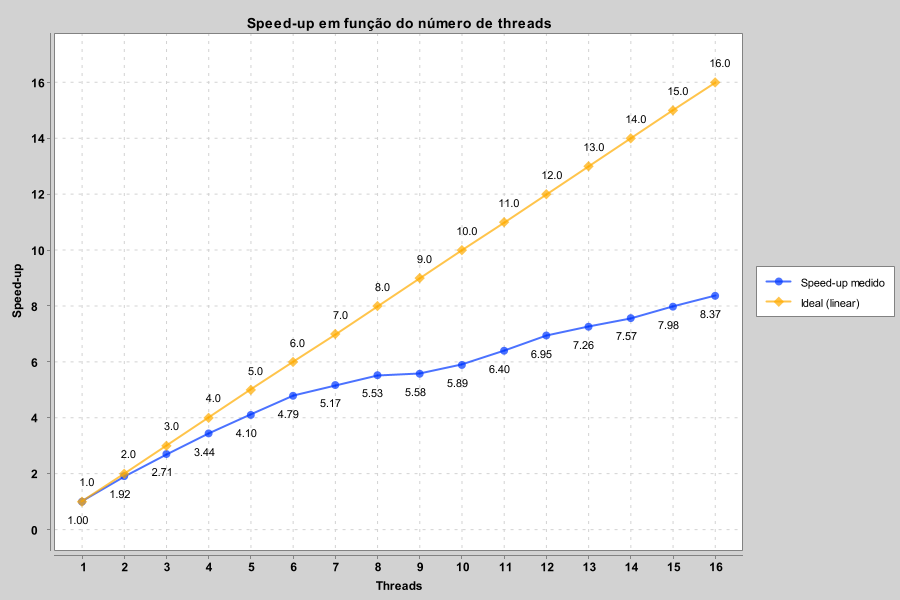
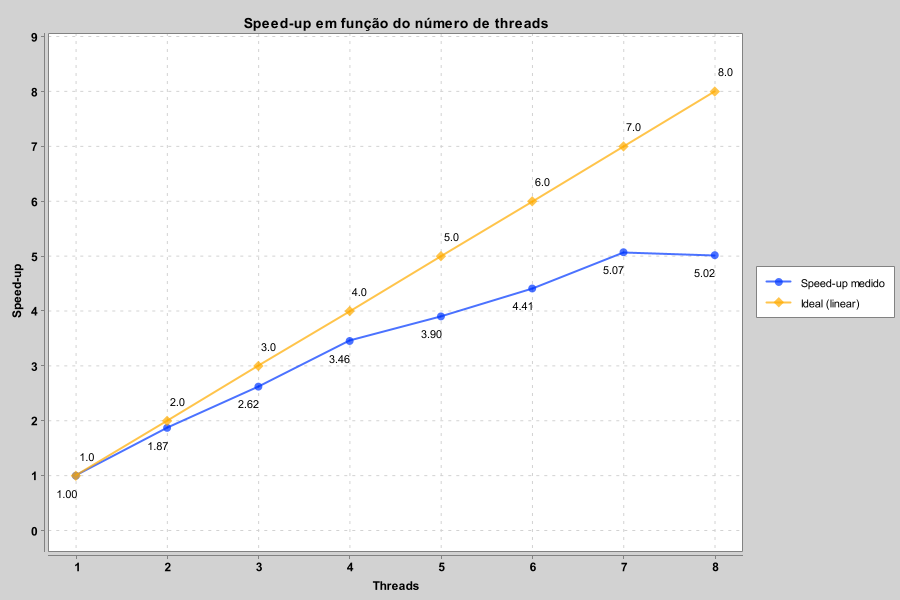
Update exports and clean up comments
Add student archive and presentation PDF; remove several generated export .txt files (Extração01, canteiros, teste). Update performance data: replace speedup.csv with new measurements, replace speedup.png and add a copy image (speedup - Copia.png). Clean up Java sources by removing/shortening explanatory JavaDoc/comments in MenuConsoleSimplificado.java and ProcessadorFolhaPagamento.java and applying minor whitespace tweaks.

diff --git a/Trabalho 02/src/main/java/br/edu/utfpr/service/ProcessadorFolhaPagamento.java b/Trabalho 02/src/main/java/br/edu/utfpr/service/ProcessadorFolhaPagamento.java
@@ -70,6 +70,7 @@ public class ProcessadorFolhaPagamento {
      * Dias de afastamento no mês (0 = nenhum). Referência: mês com 30 dias.
      * Quando há afastamento, a quantidade de dias é sorteada de forma determinística.
      */
+
     private int gerarDiasAfastamentoNoMes(int empregadoId, int mes) {
         if (randomDeterministico01(empregadoId, mes, 3) >= 0.015) {
             return 0;
@@ -78,17 +79,6 @@ public class ProcessadorFolhaPagamento {
         return Math.min(dias, 30);
     }
 
-    /**
-     * Simulação anual simplificada (não é legislação real).
-     * <p>
-     * <b>Faltas:</b> por mês, sorteia 0–3 faltas. O desconto no líquido do mês é
-     * {@code (salário do mês / 30) × número de faltas}, ou seja, cada falta desconta o valor de um dia
-     * proporcional ao salário daquele mês (já com fator sazonal), <em>antes</em> do ajuste por afastamento.
-     * <p>
-     * <b>Afastamento:</b> sorteia quantos dias do mês o empregado ficou afastado. O salário do mês é
-     * proporcional: em cada dia afastado paga-se 60% do valor de um dia; nos demais dias, 100%
-     * (base mensal referenciada a 30 dias): {@code salárioMes × ((30 - d) + 0,60 × d) / 30}.
-     */
     private void calcularFolhaAnual(int index) {
         int empregadoId = index + 1;
         double salarioBase = salariosBase[index];
@@ -238,6 +228,7 @@ public class ProcessadorFolhaPagamento {
     /**
      * @param imprimirResumoTempos se true, imprime total e média por lote após a tabela (útil para uma única execução).
      */
+
     public long executarSerialComTabela(int qtdLotes, boolean imprimirResumoTempos) {
         long inicioTotal = System.currentTimeMillis();
 

diff --git a/Trabalho 02/src/main/java/br/edu/utfpr/MenuConsoleSimplificado.java b/Trabalho 02/src/main/java/br/edu/utfpr/MenuConsoleSimplificado.java
@@ -28,7 +28,6 @@ public class MenuConsoleSimplificado {
 
     private static final Scanner scanner = new Scanner(System.in);
     private static final DateTimeFormatter dateFormatter = DateTimeFormatter.ofPattern("dd/MM/yyyy");
-    /** Carga menor para demonstração em sala (modo apresentação). */
     private static final int CARGA_APRESENTACAO = 5_000_000;
 
     private record SnapshotRecursos(Double cpuProcesso, Double cpuSistema, Double ramFisicaPct, Double heapJvmPct) {